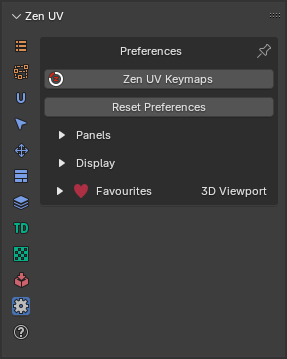
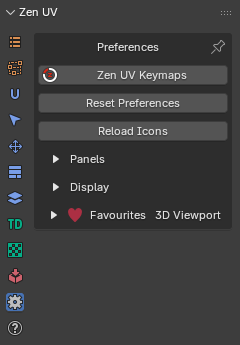
corrected preferences tab

diff --git a/mkdocs/preferences.md b/mkdocs/preferences.md
@@ -4,35 +4,49 @@
 |---|---|  
 |![Preferences](img/screen/preferences/MainPanelUv.png)|![Preferences](img/screen/preferences/MainPanel3d.png)|
 
-- **Zen UV Keymaps** - Set Shortcuts for Zen UV menus.
-- **Reset Preferences** - Reset Zen UV Preferences to default state.
+## Operators
+### Zen UV Keymaps
+When activated, it opens the Blender Preferences window with the [**Keymap**](addon_prefs.md#keymap) section pre-selected, allowing users to view or customize shortcut bindings immediately.
+
+### Reset Preferences
+Reset Zen UV Preferences to default state.
+
+### Reload Icons
+The **Reload Icons** operator restores all custom addon icons that may have disappeared or become corrupted—typically due to interference from third-party addons or Blender’s internal icon caching issues.
+
+!!! NOTE
+    - This operator does not permanently fix Blender’s icon caching bug, but provides a fast workaround
+    - If icons still fail to reload, try restarting Blender or checking for conflicting addons
 
 ---
 
 ## Panels
 
 !!! Subpanel
-     ![Preferences](img/screen/preferences/PanelPanels.png)
+    ![Preferences](img/screen/preferences/PanelPanels.png)
 
 - **Disable Docked View3D Panel** - Disable Compact UI.
 
-![Combo Panel](img/screen/preferences/Disable_CompactUI.gif)
+    ![Combo Panel](img/screen/preferences/Disable_CompactUI.gif)
 
 
 - **Multiselect With Shift** - Set Active Panels with holding Shift hotkey.
 - **Popup Panel Width** - Set Popup menu `Shift + U` width.
 
 - **Selector Orientation** - Orient Icons vertically or horizontally. 
- ![Combo Panel](img/screen/preferences/preferences_selector_orientation.gif)
+    ![Combo Panel](img/screen/preferences/preferences_selector_orientation.gif)
 
 - **Panels Icon Style** - Change Icon Style. If you don't see active panel icons with your current Blender color theme you can change the icon style.
-![Combo Panel](img/gifs/user_interface/compactui_5.gif)
+
+    ![Combo Panel](img/gifs/user_interface/compactui_5.gif)
 
 - **Disabling Panels** - Enable Add-on Panels. You can use these checkboxes disable some panels if you don't use them.
-![Combo Panel](img/gifs/user_interface/compactui_4.gif)
+
+    ![Combo Panel](img/gifs/user_interface/compactui_4.gif)
 
 - **Floating Panels** - Show Panel as a separate Panel. If you like old style menu make all the panels Floating.
-![Combo Panel](img/gifs/user_interface/compactui_7.gif)
+
+    ![Combo Panel](img/gifs/user_interface/compactui_7.gif)
 
 ---
 
@@ -42,9 +56,13 @@ The Display panel allows you to switch certain display features used across diff
 
 !!! Subpanel
     ![Preferences](img/screen/preferences/PanelDisplay.png)
+
 ---
+
 - **Addon N-Panel Name** - Name of the addon tab in N-Panel. You can set it to Zen to combine all Zen addons in one tab. Requires Blender restart. More info in the article [Addon Preferences](addon_prefs.md/#addon-n-panel-name)
+
 ---
+
 - **Display Pie Assist** - Display hints for Pie menu. More info in the article [Pie Menu Assist](user_interface.md/#pie-menu-assist)
 
 - **Display Progress Bar** - Display the progress of the operator execution process/ More info in the article [User Interface](user_interface.md/#progress-bar).
@@ -52,21 +70,21 @@ The Display panel allows you to switch certain display features used across diff
 - **Sticky UV Editor Button** - Enable Sticky UV Editor button. More info in the article [Sticky UV Editor](sticky_uv_editor.md/#about)
 
 - **Right Menu Assist** - Context assistance by right menu click. More info in the article [User Interface](user_interface.md/#right-menu-assist)
+
 ---
+
 ### HOps UV Display
-- **HOps UV Display** - Display UV trasnforms in 3D View using Hard Ops addon.
-- **Context-sensitive** - Enable HOps UV Display only if UV Editor is open.
- 
 ![HardOps_Displayl](img/screen/preferences/HardOps_Display.gif)  
 
----
+- **HOps UV Display** - Display UV trasnforms in 3D View using Hard Ops addon.
+- **Context-sensitive** - Enable HOps UV Display only if UV Editor is open.
 - **Auto Fit UV View** - Automatically Fit and Zoom UV viewport.
----
 - **Show Annotations** - Show operator data using Blender annotations.
----
-## Favourites
 
-The Favourites panel allows you to create custom panels with toolsets that are convenient or necessary for your current tasks. The ability to quickly switch panels using the preset system and the ease of creating these panels significantly speeds up daily tasks. In the Favourites panel, you can add not only operators and properties from the addon but also any Blender operators. More info in the article [Favourites](favourites.md).
+---
+
+## Favourites
+The [Favourites](favourites.md) panel allows you to create custom panels with toolsets that are convenient or necessary for your current tasks. The ability to quickly switch panels using the preset system and the ease of creating these panels significantly speeds up daily tasks. In the Favourites panel, you can add not only operators and properties from the addon but also any Blender operators. More info in the article [Favourites](favourites.md).
 
 !!! Subpanel
     ![Preferences](img/screen/preferences/PanelFavourites.png)
